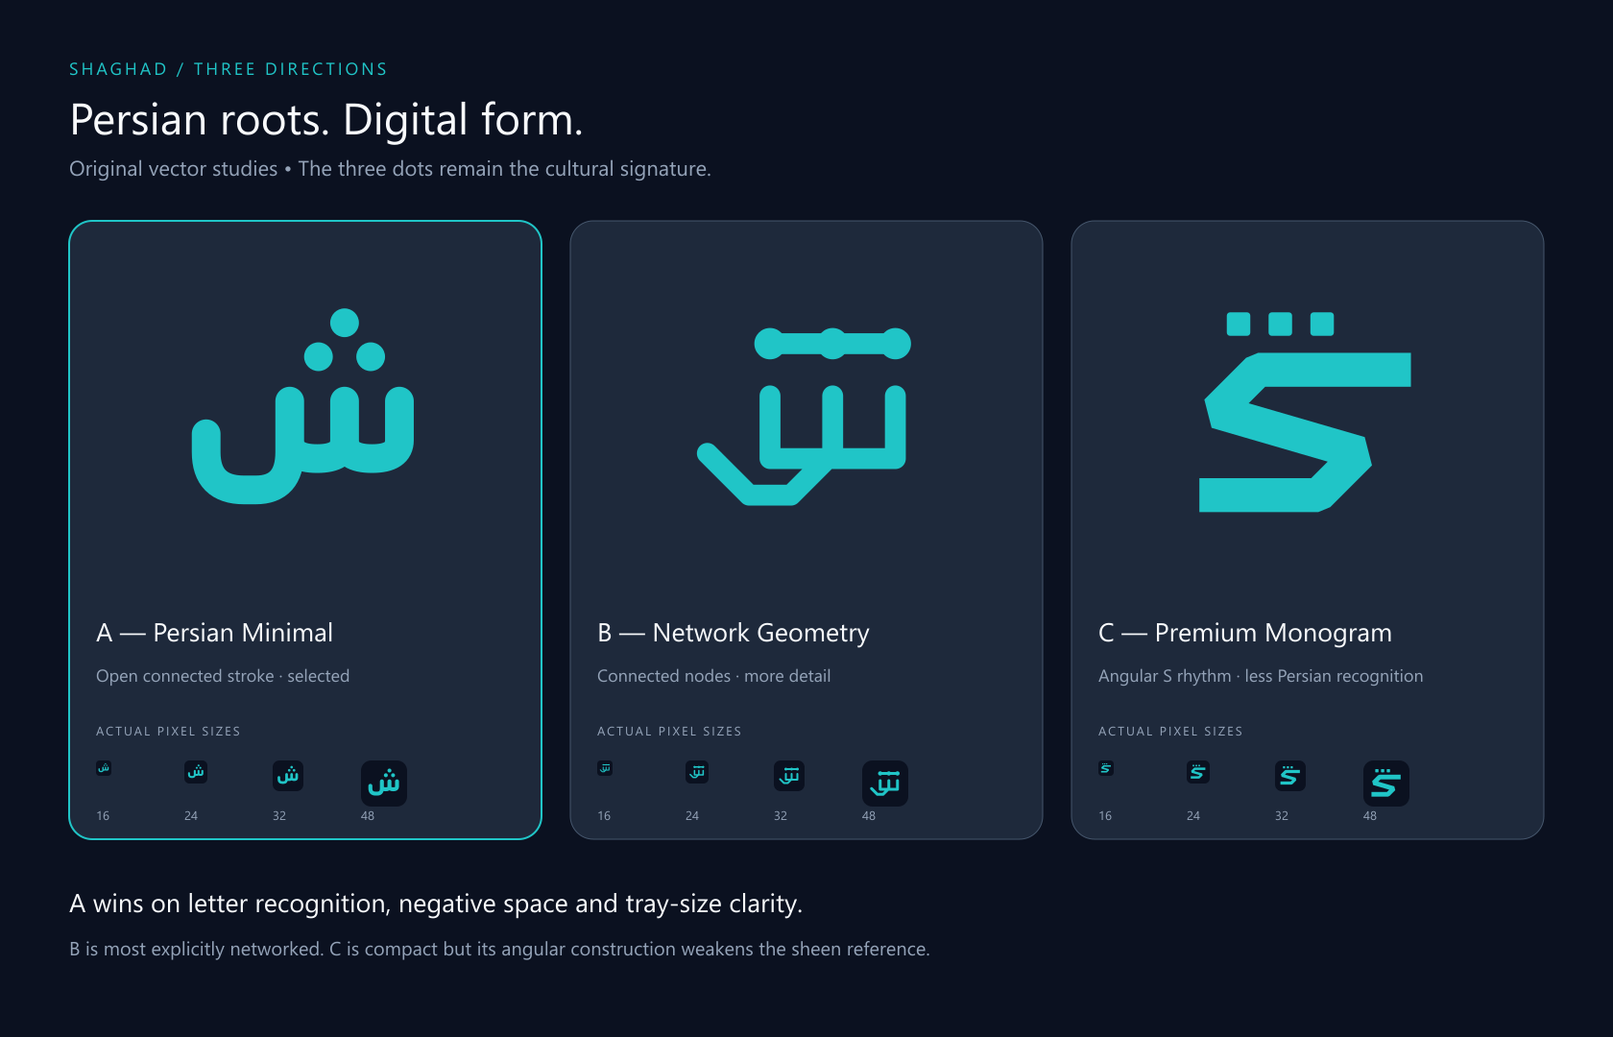
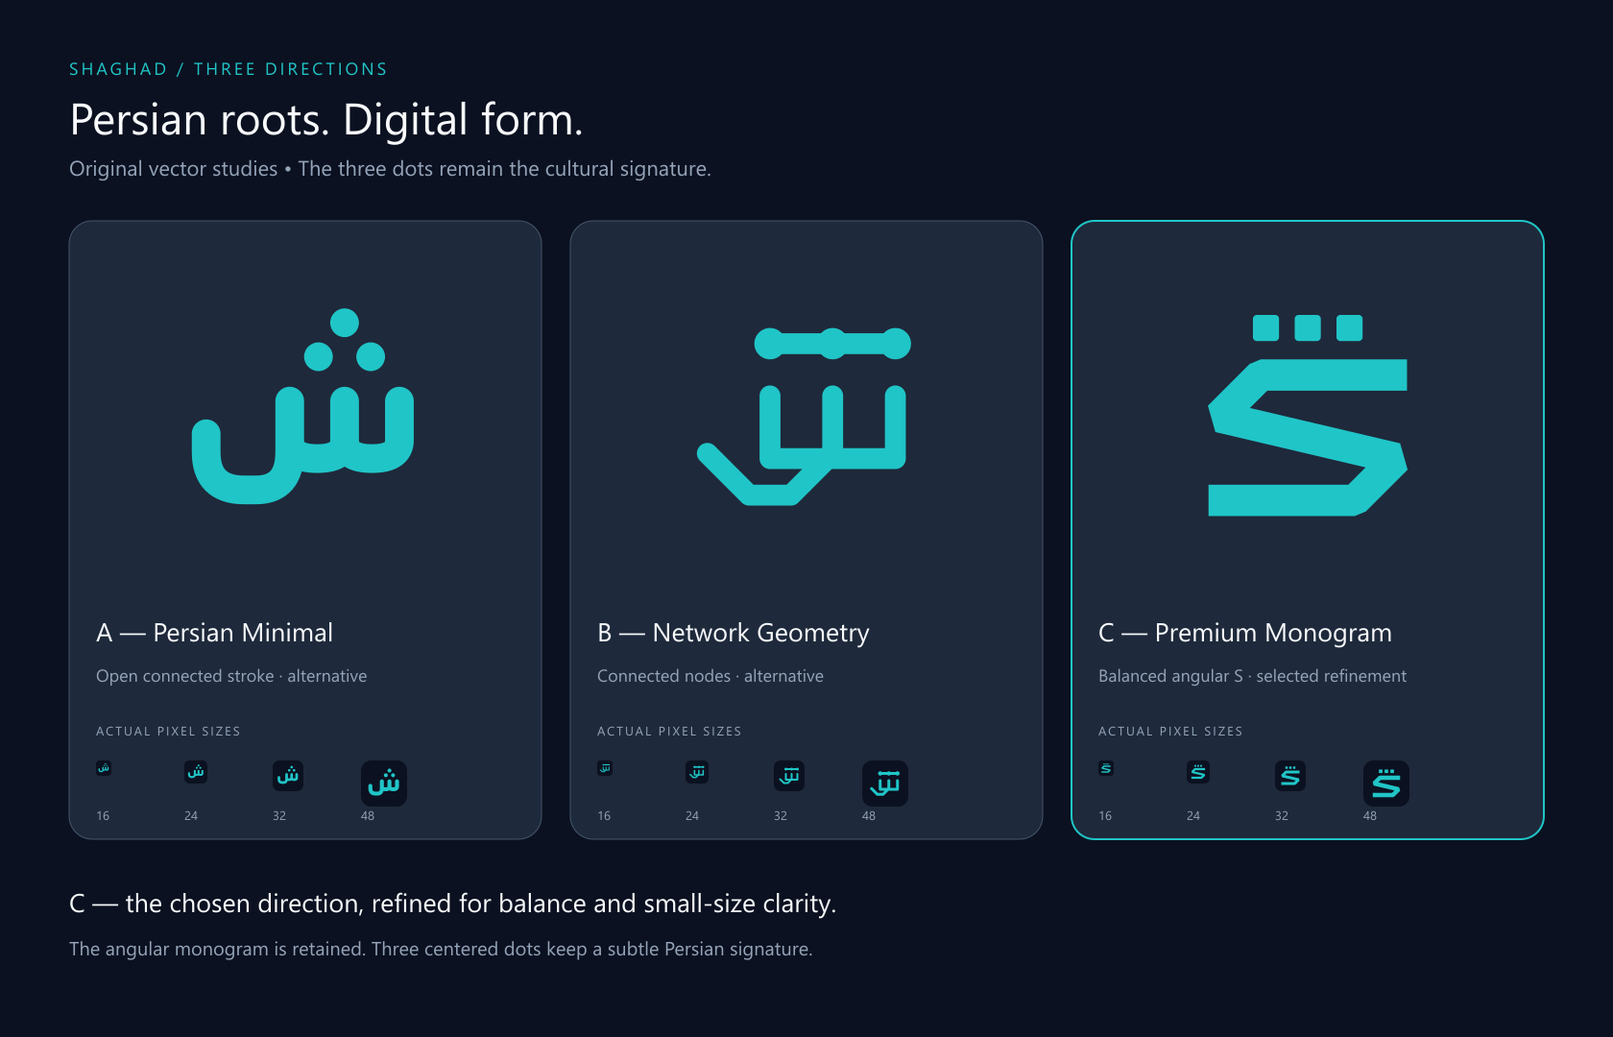
feat: refine Concept C and apply the selected SHAGHAD monogram

diff --git a/apps/windows/AJ.VPN.Desktop/Assets/BrandGeometry.xaml b/apps/windows/AJ.VPN.Desktop/Assets/BrandGeometry.xaml
@@ -1,1 +1,1 @@
-<ResourceDictionary xmlns="http://schemas.microsoft.com/winfx/2006/xaml/presentation" xmlns:x="http://schemas.microsoft.com/winfx/2006/xaml"><DrawingImage x:Key="ShaghadSymbolLight"><DrawingImage.Drawing><DrawingGroup><GeometryDrawing Brush="Transparent" Geometry="M0 0 H512 V512 H0 Z"/><GeometryDrawing Geometry="M104 282 V310 Q104 368 162 368 H180 Q232 368 232 310 V232 M232 292 Q232 320 274 320 Q316 320 316 292 V232 M316 292 Q316 320 358 320 Q400 320 400 292 V232"><GeometryDrawing.Pen><Pen Brush="#087E80" Thickness="44" StartLineCap="Round" EndLineCap="Round" LineJoin="Round"/></GeometryDrawing.Pen></GeometryDrawing><GeometryDrawing Brush="#087E80"><GeometryDrawing.Geometry><EllipseGeometry Center="276,164" RadiusX="22" RadiusY="22"/></GeometryDrawing.Geometry></GeometryDrawing><GeometryDrawing Brush="#087E80"><GeometryDrawing.Geometry><EllipseGeometry Center="316,112" RadiusX="22" RadiusY="22"/></GeometryDrawing.Geometry></GeometryDrawing><GeometryDrawing Brush="#087E80"><GeometryDrawing.Geometry><EllipseGeometry Center="356,164" RadiusX="22" RadiusY="22"/></GeometryDrawing.Geometry></GeometryDrawing></DrawingGroup></DrawingImage.Drawing></DrawingImage><DrawingImage x:Key="ShaghadSymbolDark"><DrawingImage.Drawing><DrawingGroup><GeometryDrawing Brush="Transparent" Geometry="M0 0 H512 V512 H0 Z"/><GeometryDrawing Geometry="M104 282 V310 Q104 368 162 368 H180 Q232 368 232 310 V232 M232 292 Q232 320 274 320 Q316 320 316 292 V232 M316 292 Q316 320 358 320 Q400 320 400 292 V232"><GeometryDrawing.Pen><Pen Brush="#20C5C7" Thickness="44" StartLineCap="Round" EndLineCap="Round" LineJoin="Round"/></GeometryDrawing.Pen></GeometryDrawing><GeometryDrawing Brush="#20C5C7"><GeometryDrawing.Geometry><EllipseGeometry Center="276,164" RadiusX="22" RadiusY="22"/></GeometryDrawing.Geometry></GeometryDrawing><GeometryDrawing Brush="#20C5C7"><GeometryDrawing.Geometry><EllipseGeometry Center="316,112" RadiusX="22" RadiusY="22"/></GeometryDrawing.Geometry></GeometryDrawing><GeometryDrawing Brush="#20C5C7"><GeometryDrawing.Geometry><EllipseGeometry Center="356,164" RadiusX="22" RadiusY="22"/></GeometryDrawing.Geometry></GeometryDrawing></DrawingGroup></DrawingImage.Drawing></DrawingImage><DrawingImage x:Key="ShaghadSymbolHighContrast"><DrawingImage.Drawing><DrawingGroup><GeometryDrawing Brush="Transparent" Geometry="M0 0 H512 V512 H0 Z"/><GeometryDrawing Geometry="M104 282 V310 Q104 368 162 368 H180 Q232 368 232 310 V232 M232 292 Q232 320 274 320 Q316 320 316 292 V232 M316 292 Q316 320 358 320 Q400 320 400 292 V232"><GeometryDrawing.Pen><Pen Brush="{DynamicResource {x:Static SystemColors.WindowTextBrushKey}}" Thickness="44" StartLineCap="Round" EndLineCap="Round" LineJoin="Round"/></GeometryDrawing.Pen></GeometryDrawing><GeometryDrawing Brush="{DynamicResource {x:Static SystemColors.WindowTextBrushKey}}"><GeometryDrawing.Geometry><EllipseGeometry Center="276,164" RadiusX="22" RadiusY="22"/></GeometryDrawing.Geometry></GeometryDrawing><GeometryDrawing Brush="{DynamicResource {x:Static SystemColors.WindowTextBrushKey}}"><GeometryDrawing.Geometry><EllipseGeometry Center="316,112" RadiusX="22" RadiusY="22"/></GeometryDrawing.Geometry></GeometryDrawing><GeometryDrawing Brush="{DynamicResource {x:Static SystemColors.WindowTextBrushKey}}"><GeometryDrawing.Geometry><EllipseGeometry Center="356,164" RadiusX="22" RadiusY="22"/></GeometryDrawing.Geometry></GeometryDrawing></DrawingGroup></DrawingImage.Drawing></DrawingImage></ResourceDictionary>
+<ResourceDictionary xmlns="http://schemas.microsoft.com/winfx/2006/xaml/presentation" xmlns:x="http://schemas.microsoft.com/winfx/2006/xaml"><DrawingImage x:Key="ShaghadSymbolLight"><DrawingImage.Drawing><DrawingGroup><GeometryDrawing Brush="Transparent" Geometry="M0 0 H512 V512 H0 Z"/><GeometryDrawing Geometry="M384 192 H184 L120 256 L392 320 L328 384 H128"><GeometryDrawing.Pen><Pen Brush="#087E80" Thickness="48" StartLineCap="Square" EndLineCap="Square" LineJoin="Bevel"/></GeometryDrawing.Pen></GeometryDrawing><GeometryDrawing Brush="#087E80"><GeometryDrawing.Geometry><RectangleGeometry Rect="172,100,40,40" RadiusX="6" RadiusY="6"/></GeometryDrawing.Geometry></GeometryDrawing><GeometryDrawing Brush="#087E80"><GeometryDrawing.Geometry><RectangleGeometry Rect="236,100,40,40" RadiusX="6" RadiusY="6"/></GeometryDrawing.Geometry></GeometryDrawing><GeometryDrawing Brush="#087E80"><GeometryDrawing.Geometry><RectangleGeometry Rect="300,100,40,40" RadiusX="6" RadiusY="6"/></GeometryDrawing.Geometry></GeometryDrawing></DrawingGroup></DrawingImage.Drawing></DrawingImage><DrawingImage x:Key="ShaghadSymbolDark"><DrawingImage.Drawing><DrawingGroup><GeometryDrawing Brush="Transparent" Geometry="M0 0 H512 V512 H0 Z"/><GeometryDrawing Geometry="M384 192 H184 L120 256 L392 320 L328 384 H128"><GeometryDrawing.Pen><Pen Brush="#20C5C7" Thickness="48" StartLineCap="Square" EndLineCap="Square" LineJoin="Bevel"/></GeometryDrawing.Pen></GeometryDrawing><GeometryDrawing Brush="#20C5C7"><GeometryDrawing.Geometry><RectangleGeometry Rect="172,100,40,40" RadiusX="6" RadiusY="6"/></GeometryDrawing.Geometry></GeometryDrawing><GeometryDrawing Brush="#20C5C7"><GeometryDrawing.Geometry><RectangleGeometry Rect="236,100,40,40" RadiusX="6" RadiusY="6"/></GeometryDrawing.Geometry></GeometryDrawing><GeometryDrawing Brush="#20C5C7"><GeometryDrawing.Geometry><RectangleGeometry Rect="300,100,40,40" RadiusX="6" RadiusY="6"/></GeometryDrawing.Geometry></GeometryDrawing></DrawingGroup></DrawingImage.Drawing></DrawingImage><DrawingImage x:Key="ShaghadSymbolHighContrast"><DrawingImage.Drawing><DrawingGroup><GeometryDrawing Brush="Transparent" Geometry="M0 0 H512 V512 H0 Z"/><GeometryDrawing Geometry="M384 192 H184 L120 256 L392 320 L328 384 H128"><GeometryDrawing.Pen><Pen Brush="{DynamicResource {x:Static SystemColors.WindowTextBrushKey}}" Thickness="48" StartLineCap="Square" EndLineCap="Square" LineJoin="Bevel"/></GeometryDrawing.Pen></GeometryDrawing><GeometryDrawing Brush="{DynamicResource {x:Static SystemColors.WindowTextBrushKey}}"><GeometryDrawing.Geometry><RectangleGeometry Rect="172,100,40,40" RadiusX="6" RadiusY="6"/></GeometryDrawing.Geometry></GeometryDrawing><GeometryDrawing Brush="{DynamicResource {x:Static SystemColors.WindowTextBrushKey}}"><GeometryDrawing.Geometry><RectangleGeometry Rect="236,100,40,40" RadiusX="6" RadiusY="6"/></GeometryDrawing.Geometry></GeometryDrawing><GeometryDrawing Brush="{DynamicResource {x:Static SystemColors.WindowTextBrushKey}}"><GeometryDrawing.Geometry><RectangleGeometry Rect="300,100,40,40" RadiusX="6" RadiusY="6"/></GeometryDrawing.Geometry></GeometryDrawing></DrawingGroup></DrawingImage.Drawing></DrawingImage></ResourceDictionary>

diff --git a/docs/design/SHAGHAD-BRANDING-REPORT.md b/docs/design/SHAGHAD-BRANDING-REPORT.md
@@ -1,6 +1,6 @@
 # SHAGHAD BRANDING REPORT
 
-11 October 2026. Implemented in **D:\VPN-AJ**. Selected identity: **Concept A — Persian Minimal**. This is a completed branding milestone on an existing development foundation, not a production VPN release.
+11 October 2026. Implemented in **D:\VPN-AJ**. Selected identity: **Concept C — Premium Monogram (refined)**, following the user's selection. This is a completed branding milestone on an existing development foundation, not a production VPN release.
 
 ## 1. Existing Project Analysis
 
@@ -12,7 +12,7 @@ The existing solution, internal AJ.VPN namespaces, project paths, parser, diagno
 
 - **A — Persian Minimal:** open geometric ش, connected rounded stroke and three triangular dots.
 - **B — Network Geometry:** angular letterform with explicit linked nodes.
-- **C — Premium Monogram:** compact angular S-derived construction with three square dots.
+- **C — Premium Monogram, refined:** balanced angular S-derived construction with three centered square dots. Original C is retained as `concept-c-original.svg`.
 
 Editable sources: `D:\VPN-AJ\branding\concepts\concept-a.svg`, `concept-b.svg`, `concept-c.svg`.
 
@@ -20,7 +20,7 @@ Visual comparison: `D:\VPN-AJ\branding\previews\concepts-preview.png` and `.svg`
 
 ## 3. Selected Logo and Rationale
 
-**A** best balances Persian letter recognition, negative space and small-size clarity. The connected bowl/teeth suggest continuity without needing a network diagram. B adds detail; C weakens the preferred Persian association. The literary origin does not imply that Shaghad symbolized trust or protection.
+**C** is the user's chosen direction. Its angular S and square-dot character are preserved, with equal arms, a 48-unit stroke, more open counters and three 40-unit dots centered on a 64-unit rhythm. The three dots retain a subtle Persian reference. The literary origin does not imply that Shaghad symbolized trust or protection. Before/after: `D:\VPN-AJ\branding\previews\concept-c-refinement.png`.
 
 Primary master: `D:\VPN-AJ\branding\logo\shaghad-symbol.svg`. Geometry and assessment: `D:\VPN-AJ\docs\design\LOGO-DESIGN.md`.
 
@@ -47,11 +47,12 @@ Persian RTL moves navigation to the right. Logos, URLs, versions, profile URIs a
 | Real seven-frame ICO | `D:\VPN-AJ\branding\icons\shaghad.ico` |
 | Three-concept comparison | `D:\VPN-AJ\branding\previews\concepts-preview.png` |
 | Dark / light identity boards | `D:\VPN-AJ\branding\previews\dark-preview.png`, `light-preview.png` |
+| C refinement comparison | `D:\VPN-AJ\branding\previews\concept-c-refinement.png`, `.svg`; original study in `D:\VPN-AJ\branding\concepts\concept-c-original.svg` |
 | Hash manifest | `D:\VPN-AJ\branding\asset-manifest.json` |
 | Guidelines | `D:\VPN-AJ\branding\BRAND-GUIDELINES.md` |
 | Export / asset validation | `D:\VPN-AJ\scripts\export-branding.cjs`, `validate-branding.ps1` |
 
-13 SVG documents, eight icon PNG sizes, three preview PNGs and a genuine ICO were generated, totaling 25 manifest assets. SVG wordmarks remain vectors. Raster exports use local sharp/librsvg. Generated SVG line endings are pinned to LF with `.gitattributes` so hashes survive Windows checkout.
+15 SVG documents, eight icon PNG sizes, four preview PNGs and a genuine ICO were generated, totaling 28 manifest assets. SVG wordmarks remain vectors. Raster exports use local sharp/librsvg. Generated SVG line endings are pinned to LF with `.gitattributes` so hashes survive Windows checkout.
 
 ## 7. Windows UI Changes
 
@@ -81,14 +82,14 @@ Executed with workspace-local .NET SDK 10.0.401 and the repository scripts on Wi
 |---|---|
 | `scripts/build.ps1` (restore + Release solution build) | Passed, zero warnings/errors |
 | `scripts/test.ps1` | 11 passed: 3 unit + 8 integration, zero failures/skips |
-| `scripts/validate-branding.ps1` | Passed: 13 SVG XML documents, PNG dimensions, seven ICO payloads, System.Drawing frame selection 16–128, 25 SHA-256 asset hashes and required contrast pairs |
+| `scripts/validate-branding.ps1` | Passed for refined C: 15 SVG XML documents, PNG dimensions, seven ICO payloads, System.Drawing frame selection 16–128, 28 SHA-256 asset hashes and required contrast pairs |
 | `scripts/smoke-test.ps1` | Passed: WPF startup/DI, eight pages, dark/Persian RTL, embedded Vazirmatn resolution, all seven WPF ICO frames through 256, tray icon decode and actual About menu callback, GPL/OFL viewer |
 | `scripts/publish.ps1` | Passed: framework-dependent win-x64 output with SHAGHAD executable and legal/font notices |
 | Live application check | SHAGHAD window and small title-bar icon visible; Dashboard/About navigation and license dialog opened; explicit Exit completed |
 
-Regression evidence: `D:\VPN-AJ\artifacts\TestResults\Victus_AJ-VICTUS_2026-10-11_19_48_08_net10.0.trx` and the corresponding `[1].trx`. WPF evidence: `D:\VPN-AJ\artifacts\shaghad-smoke\result.txt` and page PNGs. These are intentionally ignored generated outputs.
+Regression evidence for refined C: `D:\VPN-AJ\artifacts\TestResults\Victus_AJ-VICTUS_2026-10-11_19_57_15_net10.0.trx` and the corresponding `[1].trx`. WPF evidence: `D:\VPN-AJ\artifacts\shaghad-smoke\result.txt` and page PNGs. Release build (zero warnings/errors), all 11 existing tests, WPF smoke and development publish were rerun successfully after the Concept C switch. These are intentionally ignored generated outputs.
 
-Actual running-window screenshot: **D:\VPN-AJ\docs\design\evidence\windows-dashboard-2026-10-11.png**, captured using the computer-use skill. This is distinct from brand design boards in `branding/previews` and programmatic WPF renders in `artifacts/shaghad-smoke`.
+Actual running-window screenshot with refined C: **D:\VPN-AJ\docs\design\evidence\windows-concept-c-2026-10-11.png**, captured using the computer-use skill in the Persian/dark interface. The initial A-identity screenshot is retained as `windows-dashboard-2026-10-11.png` for history. Both are distinct from brand design boards in `branding/previews` and programmatic WPF renders in `artifacts/shaghad-smoke`.
 
 An initial About Run.Text binding attempted a TwoWay update to a read-only property; fixed to OneWay and startup revalidated. Visual review found clipped explanatory text and cached logo tint during theme replacement; both were corrected. A later build briefly encountered the running development executable's file lock; the app was exited and the final build completed without warnings. No failed check is being reported as a pass.
 

diff --git a/docs/design/LOGO-DESIGN.md b/docs/design/LOGO-DESIGN.md
@@ -4,22 +4,22 @@ Three project-authored concepts were created as editable 512×512 SVG documents.
 
 | Concept | Usability | Distinctiveness of form | Scalability | Decision |
 |---|---|---|---|---|
-| A — Persian Minimal | Open bowl, teeth and three triangular dots read as ش; calm silhouette | Persian letterform becomes an open connected path | Broad rounded strokes and generous gaps; best of these at 16 px | Selected |
+| A — Persian Minimal | Open bowl, teeth and three triangular dots read as ش; calm silhouette | Persian letterform becomes an open connected path | Broad rounded strokes and generous gaps | Retained as an alternative |
 | B — Network Geometry | Angular node path explicitly suggests connectivity | Different routing-like construction; linked dots reduce letter recognition | Horizontal node link adds density at small sizes | Retained as an alternative |
-| C — Premium Monogram | Compact angular S rhythm | Visually separate from A/B; weaker Persian association | Thick diagonal mass survives, but open counters are less clear at 16 px | Retained as an alternative |
+| C — Premium Monogram, refined | Compact angular S rhythm with three centered square dots | Distinct geometric silhouette; the dots retain a subtle Persian association | Balanced arms, 48-unit stroke and more open counters; raster-checked at 16–48 px | Selected by the user |
 
-A is strongest because it retains the cultural reference and needs fewer elements to work at tray size. B's network explanation adds detail; C's Latin monogram weakens the preferred sheen direction. The comparison image includes **actual 16/24/32/48 pixel samples**, not only enlarged symbols.
+The user selected C. Its refinement keeps the angular S and square-dot signature while improving optical centering, arm balance and small-size spacing. A/B remain intact as alternatives; the original C is retained separately for comparison. The updated comparison image includes **actual 16/24/32/48 pixel samples**, not only enlarged symbols.
 
 ## Selected geometry
 
-Coordinate system: 512 square, no gradients. Main stroke: 44 units, round caps and joins. The open left bowl is balanced by three upright teeth; connected quadratics create a single readable rhythm. The dots use radius 22 at `(276,164)`, `(316,112)`, `(356,164)`. The triangular arrangement references sheen and avoids reducing the identity to a generic dotted S.
+Coordinate system: 512 square, no gradients. Main stroke: **48 units**, square caps and bevel joins. The body is rotationally symmetric around `(256,288)`, with equal 200-unit horizontal arms and matching 64-unit diagonal turns. Compared with the original C's 52-unit stroke and unequal arms, the lighter construction opens negative space while keeping the angular character.
+
+Three **40×40** squares, corner radius **6**, start at `(172,100)`, `(236,100)` and `(300,100)`. Their centers are `(192,120)`, `(256,120)`, `(320,120)`: a 64-unit rhythm centered on the body, with a 24-unit gap. They retain the three-dot Persian reference. The whole mark is optically centered within the unchanged app tile.
 
 The main path is:
 
 ```text
-M104 282 V310 Q104 368 162 368 H180 Q232 368 232 310 V232
-M232 292 Q232 320 274 320 Q316 320 316 292 V232
-M316 292 Q316 320 358 320 Q400 320 400 292 V232
+M384 192 H184 L120 256 L392 320 L328 384 H128
 ```
 
 The app icon places the symbol in turquoise on a navy tile, radius 112 in a 512 viewBox. The standalone monochrome variant has no tile. The open negative space and separated dots are maintained in every export. A small-size raster uses Lanczos supersampling; tiny dots are naturally antialiased rather than artificially enlarged.
@@ -31,6 +31,8 @@ SHAGHAD lettering is drawn from original geometric paths, with rounded joins, co
 Masters: `D:\VPN-AJ\branding\concepts\concept-a.svg`, `concept-b.svg`, `concept-c.svg` and `D:\VPN-AJ\branding\logo\*.svg`.
 
 Comparison: `D:\VPN-AJ\branding\previews\concepts-preview.png` (1680×1080). Selected identity boards: `dark-preview.png` and `light-preview.png` (1400×840). These are **design previews**, not application screenshots.
+
+Before/after: `D:\VPN-AJ\branding\previews\concept-c-refinement.png` (1400×900), with original C, refined C on dark/light backgrounds and actual-size samples. Archived original study: `D:\VPN-AJ\branding\concepts\concept-c-original.svg`. Active concept: `D:\VPN-AJ\branding\concepts\concept-c.svg`.
 
 Geometry/export source: `D:\VPN-AJ\scripts\export-branding.cjs`. Renderer: local Node.js plus sharp/librsvg. The same source generates WPF DrawingImage geometry in `D:\VPN-AJ\apps\windows\AJ.VPN.Desktop\Assets\BrandGeometry.xaml`. Light/dark drawing resources are swapped as whole images to avoid cached Freezable brush lookup problems during theme changes. High contrast uses Windows system brushes.
 

diff --git a/branding/BRAND-GUIDELINES.md b/branding/BRAND-GUIDELINES.md
@@ -1,10 +1,10 @@
 # SHAGHAD | شغاد
 
-Modern Secure Network Client. Identity version 1.0, 11 October 2026.
+Modern Secure Network Client. Identity version 1.1, 11 October 2026.
 
 SHAGHAD draws its name from Ferdowsi's Shahnameh. The identity references the Persian letter **ش**, not the character's actions. It makes no claim that Shaghad represented trust or protection. The product earns reliability through its behavior.
 
-The selected symbol is Concept A, Persian Minimal: an open connected stroke, three upright teeth, and three separate dots. Its geometry was drawn for this project. No upstream logo, shield, lock, globe, historical portrait or ornamental motif is used. The wordmark is original vector lettering; interface labels use native typography.
+The selected symbol is **Concept C, Premium Monogram (refined)**: an angular S with balanced arms and three centered square dots. The dots are a subtle reference to ش. The body has 180-degree rotational balance around (256,288); slightly lighter strokes open its counters. Its geometry was drawn for this project. No upstream logo, shield, lock, globe, historical portrait or ornamental motif is used. The wordmark is original vector lettering; interface labels use native typography.
 
 ## Assets and placement
 
@@ -18,8 +18,9 @@ The selected symbol is Concept A, Persian Minimal: an open connected stroke, thr
 | Application / tray icon | `icons/shaghad-app-icon.svg`, `icons/shaghad.ico` |
 | Raster exports | `icons/shaghad-{16,24,32,48,64,128,256,512}.png` |
 | Concept comparison / selected identity boards | `previews/concepts-preview.png`, `previews/dark-preview.png`, `previews/light-preview.png` |
+| Concept C before/after | `previews/concept-c-refinement.png`; original source retained as `concepts/concept-c-original.svg` |
 
-The symbol uses a 512-unit square viewBox. Keep the entire square when preparing app icons. For independent placement allow at least 44 design units of clear space outside the painted mark. Keep the three dots; do not connect, rotate, mirror, stretch, add a shield or add shadows within the symbol. RTL layouts move the navigation, but the logo retains its original orientation.
+The symbol uses a 512-unit square viewBox, a 48-unit main stroke and three 40-unit squares separated by 24 units. Keep the entire square when preparing app icons. For independent placement allow at least 48 design units of clear space outside the painted mark. Keep the three dots; do not connect, rotate, mirror, stretch, add a shield or add shadows within the symbol. RTL layouts move the navigation, but the logo retains its original orientation.
 
 Use the application icon at 16 px and above. At 16 px use the supplied raster, which preserves the dots with antialiasing; never add text. Use a horizontal wordmark at 160 px or wider, and keep product descriptions as separate readable text. The 512 PNG is intended for large previews and future platform export; Android adaptive masks and macOS icon containers are not implemented.
 

diff --git a/docs/design/BRAND-IDENTITY.md b/docs/design/BRAND-IDENTITY.md
@@ -2,7 +2,7 @@
 
 Date: 2026-10-11. Product: **SHAGHAD | شغاد**, **Modern Secure Network Client**.
 
-The identity pairs a geometric Persian sheen with quiet desktop typography. The open bowl and connected teeth express a continuous path; three dots provide recognition without an illustrative historical motif. The literary name is an origin, not an endorsement of the character's conduct. No portrait or symbolism implying that Shaghad was a guardian is used.
+The identity pairs the refined **Concept C angular monogram** with quiet desktop typography. A balanced S references SHAGHAD; three centered square dots retain a subtle connection to Persian ش without an illustrative historical motif. The user selected C after reviewing the three concepts. Its refinement preserves that direction while balancing the arms, opening negative space and improving dot spacing. The literary name is an origin, not an endorsement of the character's conduct. No portrait or symbolism implying that Shaghad was a guardian is used.
 
 Brand behavior: clear state, readable language, restrained accent use and honest availability. The current development application cannot establish a VPN connection, so its dashboard shows Disconnected, unavailable controls and em dashes for missing telemetry. Brand presentation must never be used as proof of security or a connected state.
 

diff --git a/docs/design/UI-DESIGN-SYSTEM.md b/docs/design/UI-DESIGN-SYSTEM.md
@@ -55,4 +55,4 @@ Native ComboBox and TabControl chrome is retained rather than replacing their in
 
 ## Evidence
 
-`D:\VPN-AJ\artifacts\shaghad-smoke\` contains actual WPF RenderTargetBitmap output for eight pages, dark dashboard, Persian dashboard and license dialog. These are programmatic UI renders, not desktop screenshots. `D:\VPN-AJ\docs\design\evidence\windows-dashboard-2026-10-11.png` is an actual running-window capture made with the computer-use runtime. Brand boards under `branding/previews` are designed identity previews.
+`D:\VPN-AJ\artifacts\shaghad-smoke\` contains actual WPF RenderTargetBitmap output for eight pages, dark dashboard, Persian dashboard and license dialog. These are programmatic UI renders, not desktop screenshots. `D:\VPN-AJ\docs\design\evidence\windows-concept-c-2026-10-11.png` is the actual running-window capture with refined C, made with the computer-use runtime. The original A-identity capture, `windows-dashboard-2026-10-11.png`, is retained as historical evidence. Brand boards under `branding/previews` are designed identity previews.
